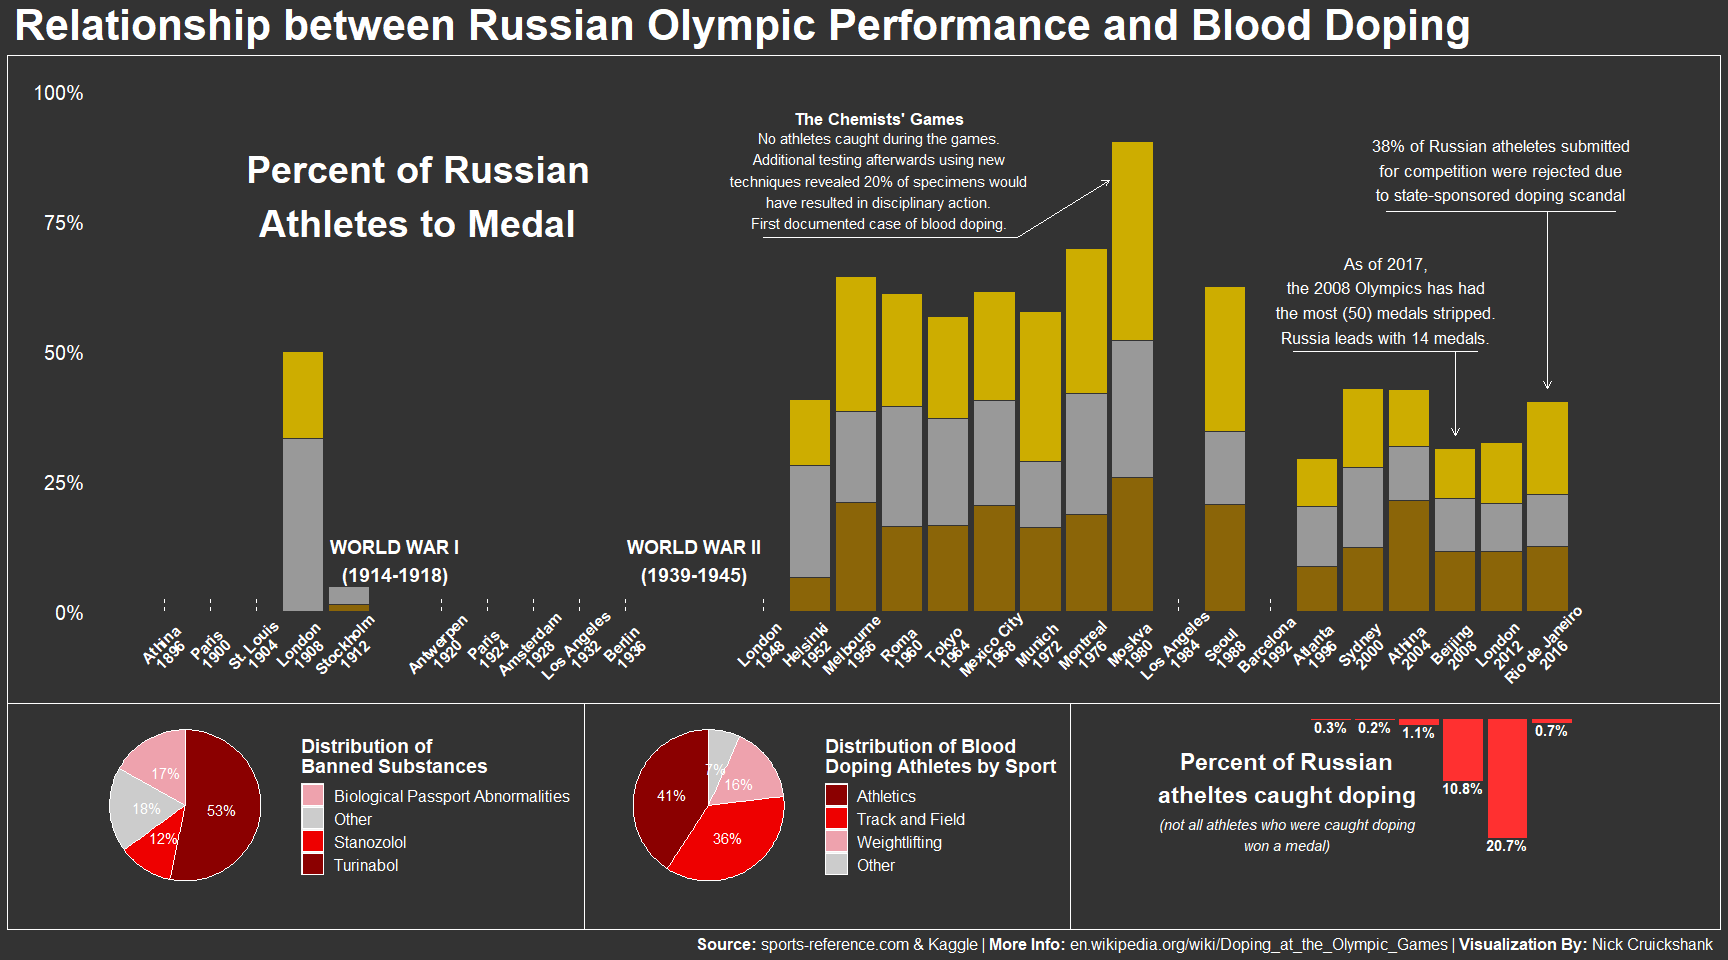
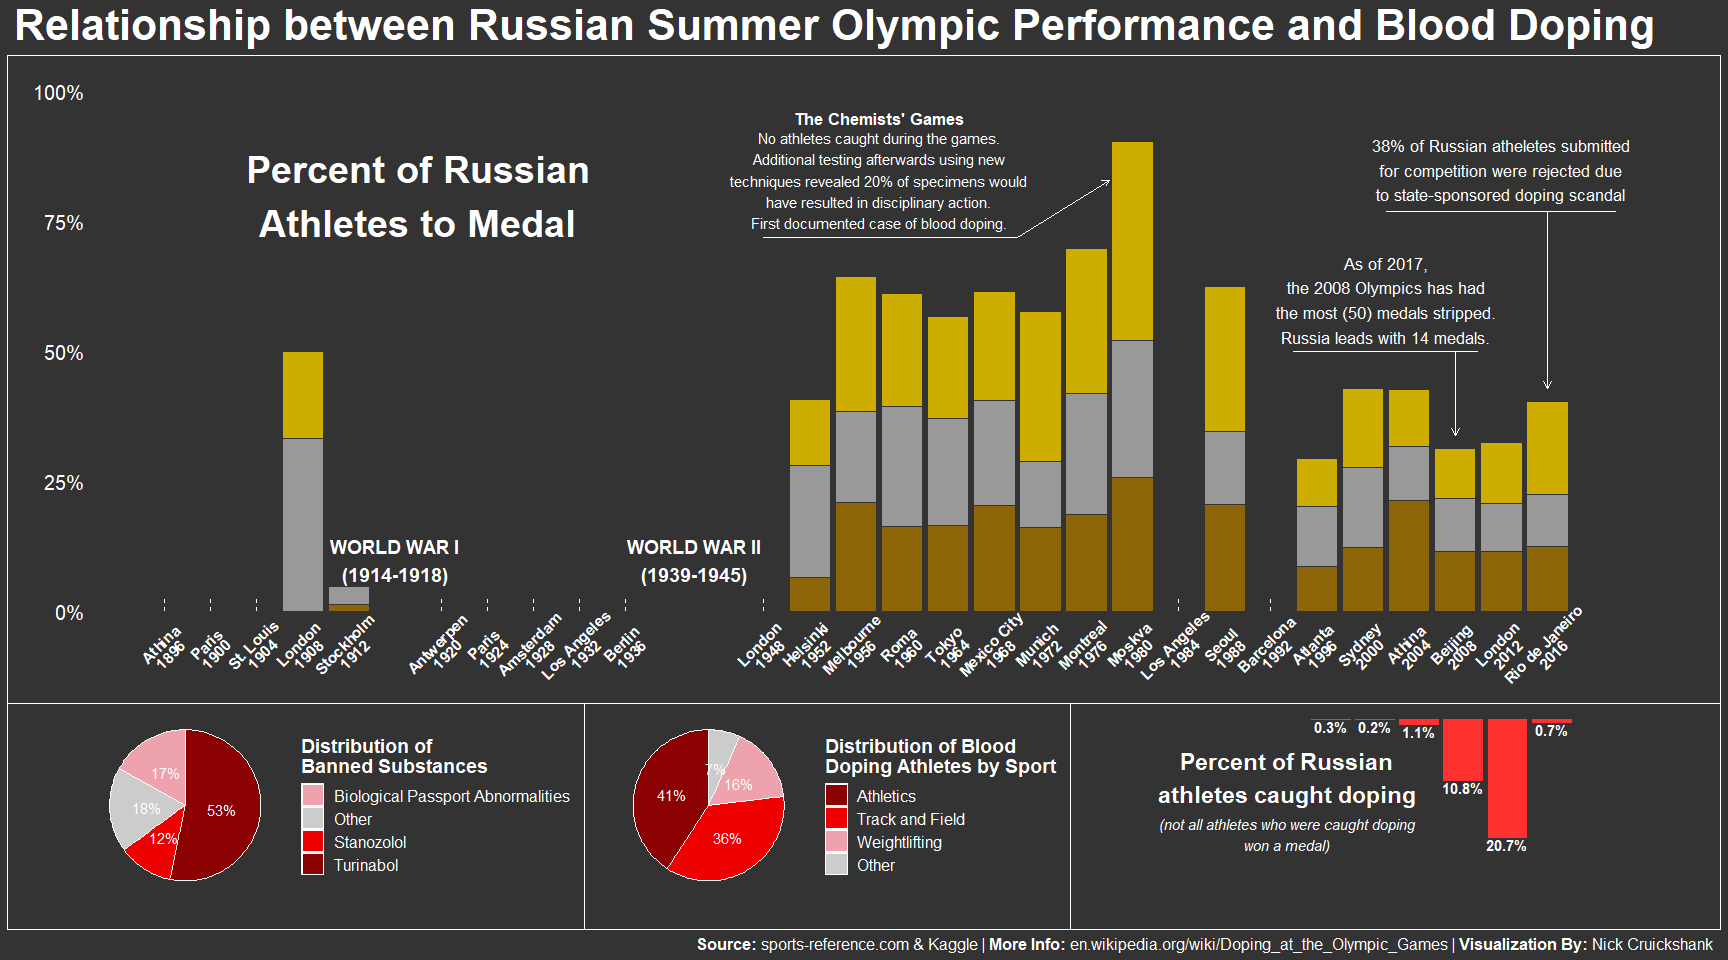
fix a spelling error
add a note to describe potential next steps

Changed region(s): [[0.375, 0.0, 0.9688, 0.0625], [0.6875, 0.8125, 0.7188, 0.8438]]

diff --git a/2021/20210727 - Olympics/20210727---Olympics.md b/2021/20210727 - Olympics/20210727---Olympics.md
@@ -157,7 +157,7 @@ dope_plot <- dope %>%
   geom_bar(stat = "identity", fill = "firebrick1") + 
   geom_text(aes(label = paste0(round(prop, 1), "%")), color = "white", fontface = "bold", vjust = 1) +
   # title
-  annotate(geom = "text", x = 1992, y = -10, label = "Percent of Russian\natheltes caught doping", color = "white", fontface = "bold", size = 6) +
+  annotate(geom = "text", x = 1992, y = -10, label = "Percent of Russian\nathletes caught doping", color = "white", fontface = "bold", size = 6) +
   # subtitle
   annotate(geom = "text", x = 1992, y = -20, label = "(not all athletes who were caught doping\nwon a medal)", fontface = "italic", color = "white", size = 4) +
   scale_y_continuous(name = NULL, labels = function(x) paste0(abs(x), "%")) + 
@@ -285,7 +285,7 @@ medal_plot /
   (drug_pie_plot + sport_pie_plot + dope_plot) +
   plot_layout(heights = c(10,3)) + 
   plot_annotation(
-    title = "Relationship between Russian Olympic Performance and Blood Doping",
+    title = "Relationship between Russian Summer Olympic Performance and Blood Doping",
     caption = caption,
     theme = theme(
       plot.background = element_rect(fill = "gray20", color = "gray20"),
@@ -296,3 +296,11 @@ medal_plot /
 ```
 
 ![](20210727---Olympics_files/figure-gfm/History%20of%20Russian%20Olympic%20Doping-1.png)<!-- -->
+
+**Note:** My choice to dive into Russia specifically was based on the
+viewing the documentary Icarus, and the countries banning from the most
+recent (2021) Summer Olypmic games. Further analysis could provide a
+similar history for other prominent countries at the Olympics (i.e.,
+United States, Germany, Italy, Great Britain). Alternatively, a
+comparitive analysis evaluating medals against blood doping could be
+done for each of the top countries.
